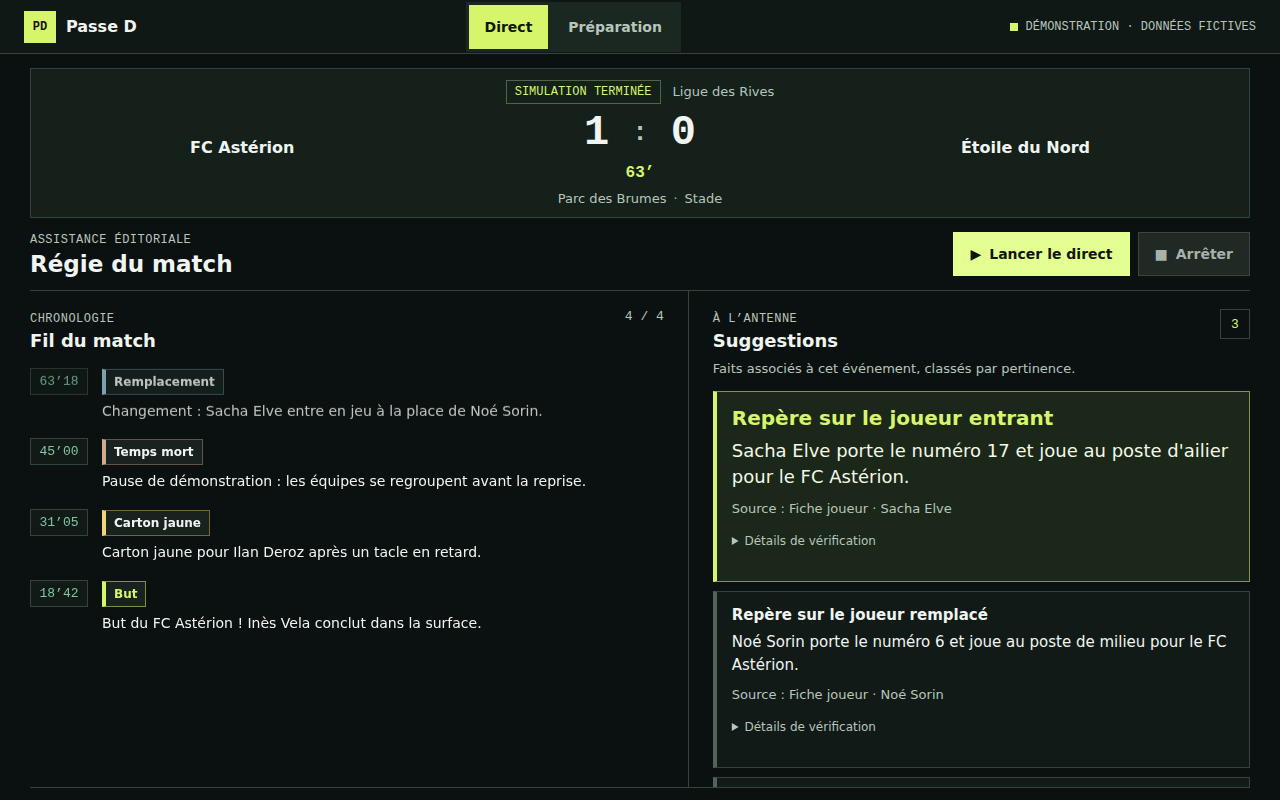
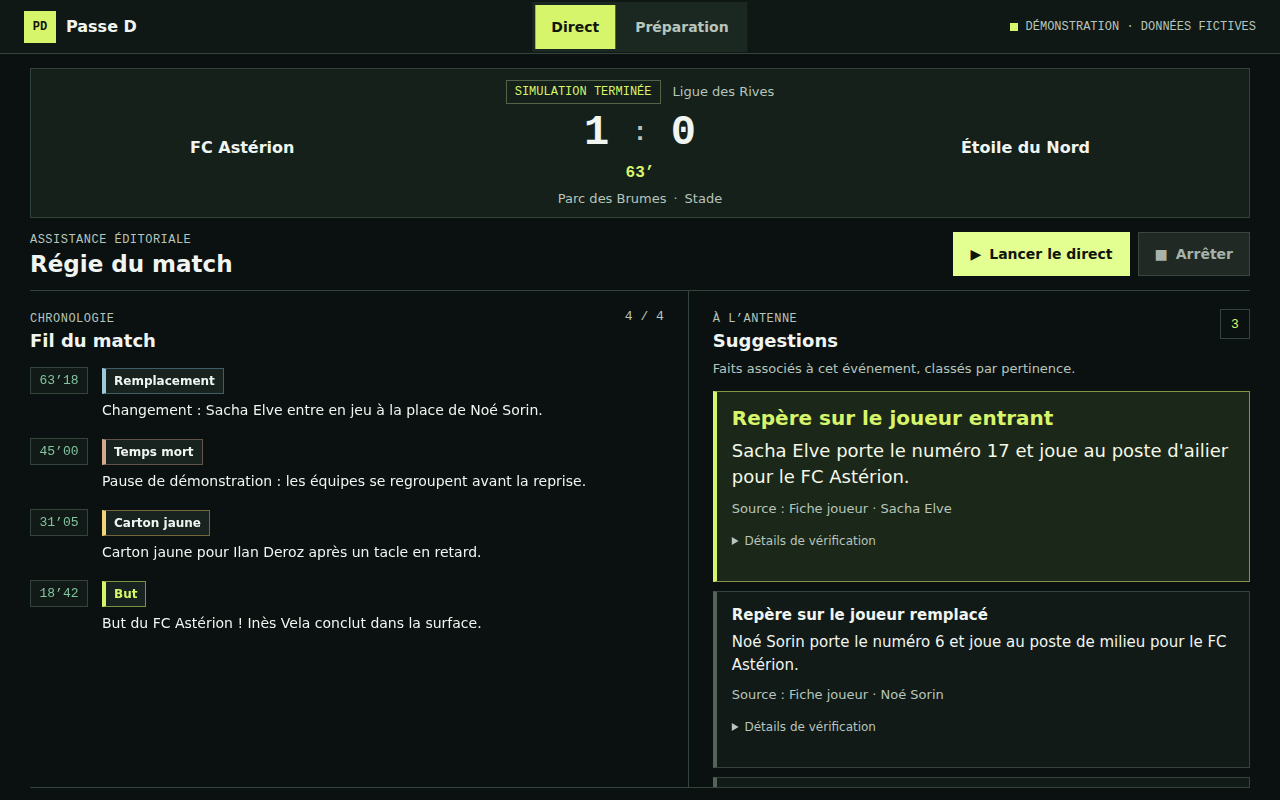
Center Direct and preparation tabs (#3)

Changed region(s): [[0.0312, 0.4688, 0.4062, 0.5312], [0.3438, 0.0, 0.5625, 0.0625]]

diff --git a/app/static/style.css b/app/static/style.css
@@ -39,7 +39,7 @@ button, input { font: inherit; }
 .mark { display: grid; width: 32px; height: 32px; place-items: center; background: var(--lime); color: #10150b; font: 700 12px var(--mono); }
 .demo-tag { display: flex; align-items: center; gap: 8px; color: var(--muted); font: 12px var(--mono); }
 .demo-tag span, .source-dot { width: 8px; height: 8px; flex: 0 0 8px; background: var(--lime); }
-.view-tabs { display: flex; align-items: center; gap: 4px; padding: 3px; background: #1b2822; }
+.view-tabs { position: absolute; left: 50%; display: flex; align-items: center; gap: 4px; padding: 3px; transform: translateX(-50%); background: #1b2822; }
 .view-tab { min-height: 44px; padding: 0 16px; border: 0; background: transparent; color: var(--muted); cursor: pointer; font-size: 14px; font-weight: 700; }
 .view-tab:hover { color: var(--ink); }
 .view-tab.is-active { background: var(--lime); color: #10150b; }
@@ -177,8 +177,8 @@ footer { padding-top: 14px; color: var(--muted); font: 12px var(--mono); }
   .wordmark { grid-column: 1; }
   .topbar > .demo-tag { grid-column: 2; grid-row: 1; justify-self: end; text-align: right; font-size: 12px; }
   .topbar > .demo-tag { flex-wrap: wrap; justify-content: flex-end; }
-  .view-tabs { grid-column: 1 / -1; grid-row: 2; }
-  .view-tab { flex: 1; }
+  .view-tabs { position: static; grid-column: 1 / -1; grid-row: 2; justify-self: center; width: max-content; max-width: 100%; transform: none; }
+  .view-tab { min-width: 110px; }
   main { padding: 16px 16px 20px; }
   .match-strip { min-height: 142px; padding: 12px 12px; }
   .match-meta { flex-wrap: wrap; gap: 6px 9px; font-size: 12px; }
